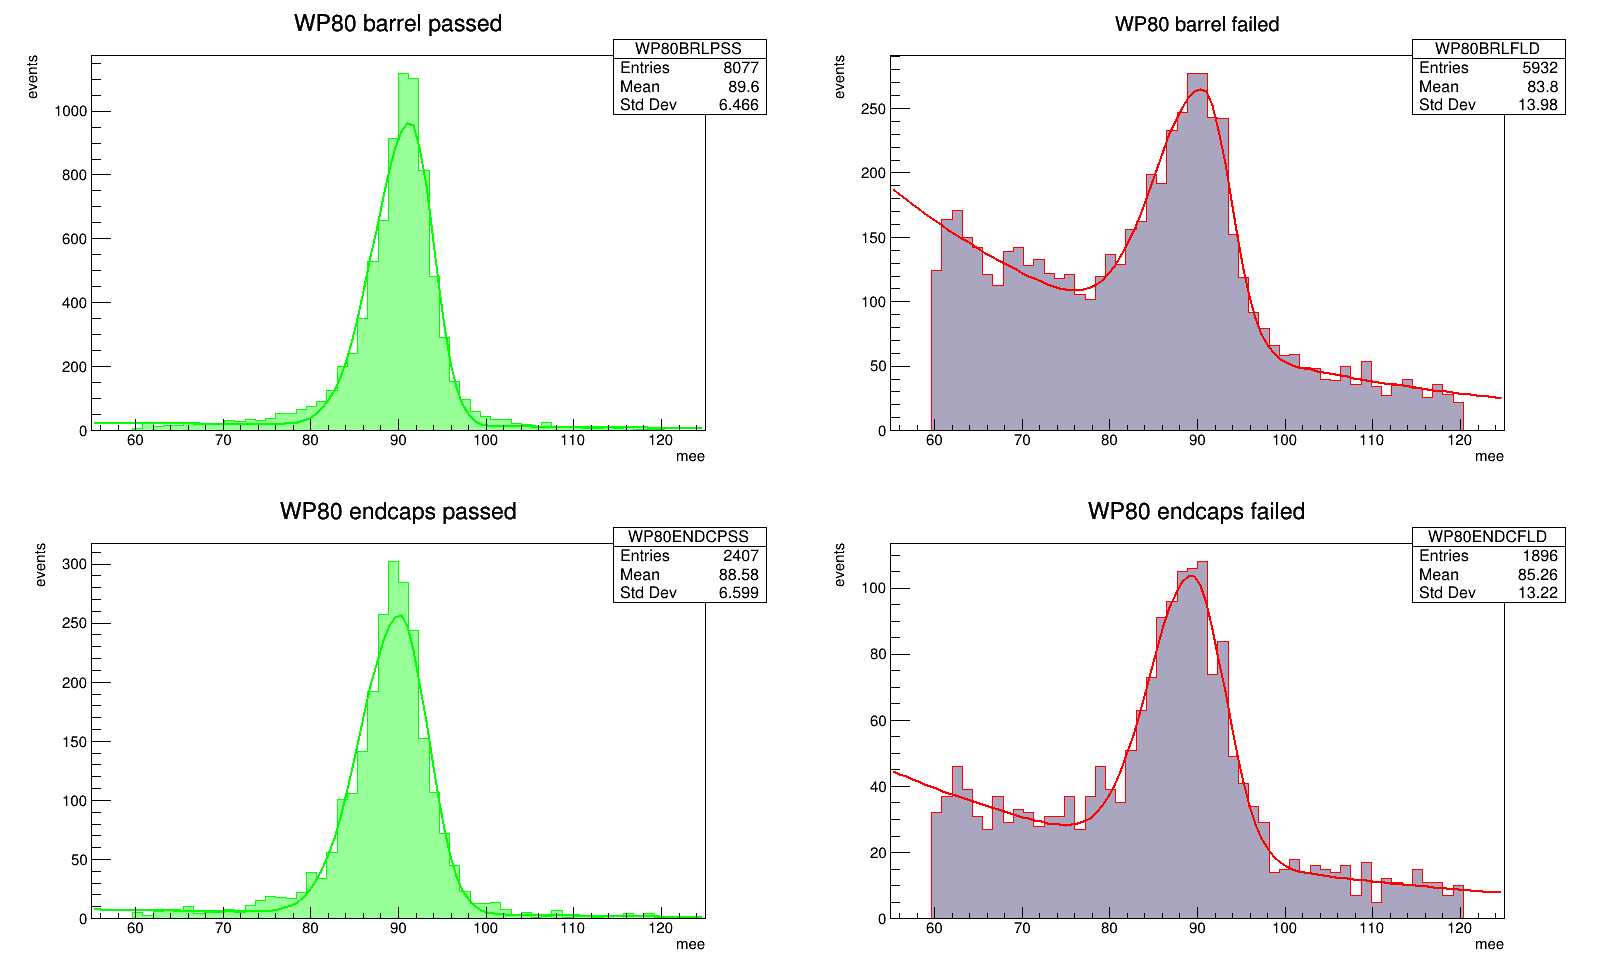
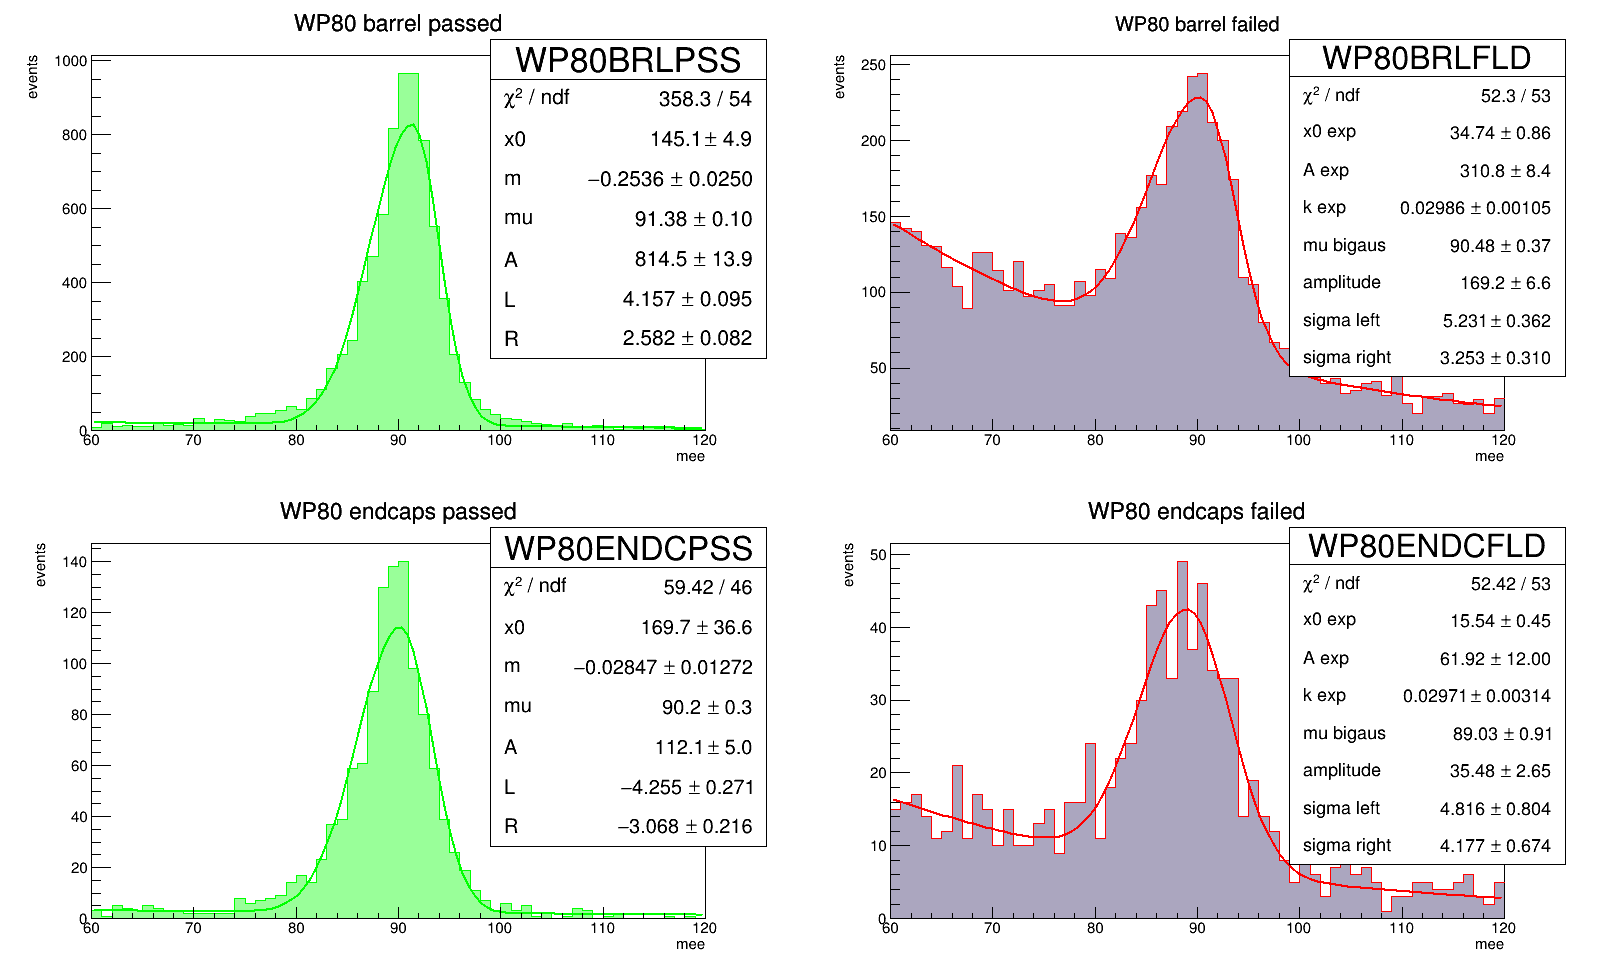
Fix graph limits and add efficiency calculations. STABLE POINT

diff --git a/analisi.C b/analisi.C
@@ -16,15 +16,16 @@ se i due elettroni sono uno di barrel e uno di endcaps dove devo mettere i faile
 #include <iostream>
 #include <TLorentzVector.h>
 #include "fitFunctions.h"
+#include <TROOT.h>
 
 using namespace std;
 
 // DBG
-const bool DBG_GOODWP80 = true;
+const bool DBG_GOODWP80 = false;
 
 // Tweaking
-#define grMinX 55
-#define grMaxX 125
+#define grMinX 60
+#define grMaxX 120
 #define fitMinX 60
 #define fitMaxX 120
 
@@ -48,7 +49,7 @@ bool debugMessage(const std::string &message, bool condition)
 Bool_t analisi::GoodWP80(int i)
 {
    debugMessage("particle " + std::to_string(i), false);
-  
+
    if (!debugMessage("missHits failed...", missHits[i] <= 0))
       return kFALSE;
    if (!debugMessage("dist or dcot failed...", abs(dist[i]) > 0.02 || abs(dcot[i]) > 0.02))
@@ -146,8 +147,8 @@ void analisi::Loop()
    canvas->Divide(2, 2);
 
    // style
-   //gStyle->SetOptStat(000000011);
-   //gStyle->SetOptFit(0001);
+   gStyle->SetOptStat(000000011);
+   gStyle->SetOptFit(0001);
 
    grBarrelPassed->GetXaxis()->SetTitle("mee");
    grBarrelPassed->GetYaxis()->SetTitle("events");
@@ -197,18 +198,22 @@ void analisi::Loop()
       {
          if (eta[1] <= 1.4442)
             grBarrelPassed->Fill(mee);
-         if ((abs(eta[1]) >= 1.566)  && (abs(eta[1]) <= 2.5))
+         else if ((abs(eta[1]) >= 1.566) && (abs(eta[1]) <= 2.5))
             grEndcapsPassed->Fill(mee);
+         else
+            discarded++;
       }
       else
       {
          if (eta[1] <= 1.4442)
             grBarrelFailed->Fill(mee);
-         if ((abs(eta[1]) >= 1.566)  && (abs(eta[1]) <= 2.5))
+         else if ((abs(eta[1]) >= 1.566) && (abs(eta[1]) <= 2.5))
             grEndcapsFailed->Fill(mee);
+         else
+            discarded++;
       }
    }
-   cout << discarded << " discarded out of " << nentries << endl;
+
    // draw stuff
    canvas->cd(1);
    grBarrelPassed->Draw();
@@ -226,38 +231,49 @@ void analisi::Loop()
    grEndcapsFailed->Draw();
    grEndcapsFailed->Fit(fitEndcapsFailed);
 
+   // Some info on the data
+   cout << "------------- LOOP INFO -------------" << endl;
+   cout << "total entries: " << nentries << endl;
+   cout << "Barrel passed: " << grBarrelPassed->GetEntries() << " vs " << fitBarrelPassed->Integral(fitMinX, fitMaxX) << endl;
+   cout << "Barrel failed: " << grBarrelFailed->GetEntries() << " vs " << fitBarrelFailed->Integral(fitMinX, fitMaxX) << endl;
+   cout << "Endcaps passed: " << grEndcapsPassed->GetEntries() << " vs " << fitEndcapsPassed->Integral(fitMinX, fitMaxX) << endl;
+   cout << "Endcaps failed: " << grEndcapsFailed->GetEntries() << " vs " << fitEndcapsFailed->Integral(fitMinX, fitMaxX) << endl;
+   cout << "Discarded: " << discarded << endl;
+
    // Efficiency considerations
-   cout << "-----------" << endl;
+   // Set the amplitude of the peak to 0 to get only the noise
+   fitBarrelPassed->SetParameter("A", 0);
+   fitBarrelFailed->SetParameter("amplitude", 0);
+   fitEndcapsPassed->SetParameter("A", 0);
+   fitEndcapsFailed->SetParameter("amplitude", 0);
+   Double_t noiseBarrelPassed = fitBarrelPassed->Integral(fitMinX, fitMaxX);
+   Double_t noiseBarrelFailed = fitBarrelFailed->Integral(fitMinX, fitMaxX);
+   Double_t noiseEndcapsPassed = fitEndcapsPassed->Integral(fitMinX, fitMaxX);
+   Double_t noiseEndcapsFailed = fitEndcapsFailed->Integral(fitMinX, fitMaxX);
+   Double_t areaBarrelPassed = grBarrelPassed->Integral() - noiseBarrelPassed;
+   Double_t areaBarrelFailed = grBarrelFailed->Integral() - noiseBarrelFailed;
+   Double_t areaEndcapsPassed = grEndcapsPassed->Integral() - noiseEndcapsPassed;
+   Double_t areaEndcapsFailed = grEndcapsFailed->Integral() - noiseEndcapsFailed;
+   Double_t areaBarrel = areaBarrelPassed + areaBarrelFailed;
+   Double_t areaEndcaps = areaEndcapsPassed + areaEndcapsFailed;
 
-   Double_t *_par;
-   fitBarrelFailed->GetParameters(_par);
-   Double_t bigausMu = _par[3];
-   Double_t bigausA = _par[4];
-   Double_t bigausSigL = _par[5];
-   Double_t bigausSigR = _par[6];
-   Double_t parBigaus[4] = {bigausA, bigausMu, bigausSigL, bigausSigR};
-   auto funBigaus = new TF1("mygaus", bigaus, 60,120, 4);
-   funBigaus->SetParameters(parBigaus);
+   cout << "------------- EFFICIENCY -------------" << endl;
+   cout << "Area for BarrelPassed: " << areaBarrelPassed << " removed noise: " << noiseBarrelPassed << endl;
+   cout << "Area for BarrelFailed: " << areaBarrelFailed << " removed noise: " << noiseBarrelFailed << endl;
+   cout << "Area for EndcapsPassed: " << areaEndcapsPassed << " removed noise: " << noiseEndcapsPassed << endl;
+   cout << "Area for EndcapsFailed: " << areaEndcapsFailed << " removed noise: " << noiseEndcapsFailed << endl;
 
-
-   Double_t areaBarrelPassed = fitBarrelPassed->Integral(60, 120);
-   Double_t areaBarrelFailed = funBigaus->Integral(60,120);
-   //Double_t areaBarrelFailed = fitBarrelFailed->Integral(60, 120);
-   Double_t areaEndcapsPassed = fitEndcapsPassed->Integral(60, 120);
-   Double_t areaEndcapsFailed = fitEndcapsFailed->Integral(60, 120);
-
-   cout << "Area under the curve for fitBarrelPassed: " << areaBarrelPassed << endl;
-   cout << "Noisy area under the curve for fitBarrelFailed: " << areaBarrelFailed << endl;
-   cout << "Area under the curve for fitEndcapsPassed: " << areaEndcapsPassed << endl;
-   cout << "Noisy area under the curve for fitEndcapsFailed: " << areaEndcapsFailed << endl;
-   cout << grBarrelPassed->Integral() << endl;
    // Calculate efficiencies
    Double_t efficiencyBarrel = areaBarrelPassed / (areaBarrelPassed + areaBarrelFailed);
    Double_t efficiencyEndcaps = areaEndcapsPassed / (areaEndcapsPassed + areaEndcapsFailed);
+   Double_t sigmaAreaBarrelPassed = sqrt(areaBarrel * efficiencyBarrel * (1 - efficiencyBarrel));
+   Double_t sigmaAreaEndcapsPassed = sqrt(areaEndcaps * efficiencyEndcaps * (1 - efficiencyEndcaps));
+   Double_t sigmaEfficiencyBarrel = sigmaAreaBarrelPassed / areaBarrel;
+   Double_t sigmaEfficiencyEndcaps = sigmaAreaEndcapsPassed / areaEndcaps;
 
    // Print efficiencies
-   cout << "Efficiency for Barrel: " << efficiencyBarrel << endl;
-   cout << "Efficiency for Endcaps: " << efficiencyEndcaps << endl;
+   cout << "Efficiency for Barrel: " << efficiencyBarrel << "\u00b1" << sigmaEfficiencyBarrel << endl;
+   cout << "Efficiency for Endcaps: " << efficiencyEndcaps << "\u00b1" << sigmaEfficiencyEndcaps <<endl;
 
    // save canvas
    canvas->SaveAs("canvas.png");

diff --git a/fitFunctions.h b/fitFunctions.h
@@ -4,6 +4,7 @@
 #include <TROOT.h>
 #include <TF1.h>
 
+
 Double_t bigaus(Double_t *_x, Double_t *_par)
 {
     Double_t x = _x[0];

diff --git a/README.md b/README.md
@@ -20,7 +20,8 @@ This project includes several key components:
 - [ ] remove noise from the failed graph
 - [ ] find efficiency
 - [ ] the area of the fit function is greater than the total number of events... which seems sus.
-- [ ] there are too many events (maybe?) 
+- [x] there are too many events (maybe?). Il problema era che venivano usati gli estremi del grafico e non gli estremi della funzione. Non ho capito il perché.
+
 
 ## Notes
 - I chanded fitBarrel/EndcapsPassed to a double sided exp because using the two sided gaussian with a peak it would not converge.
